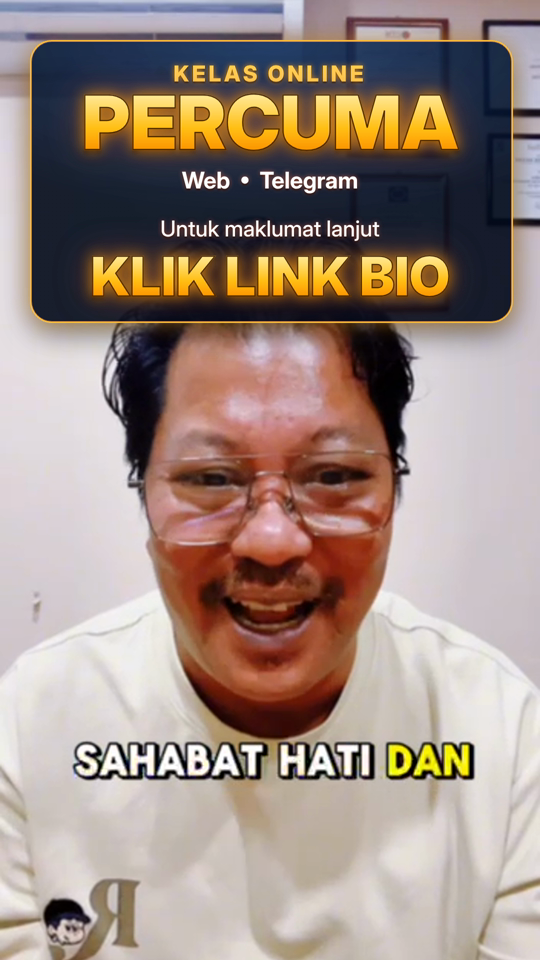
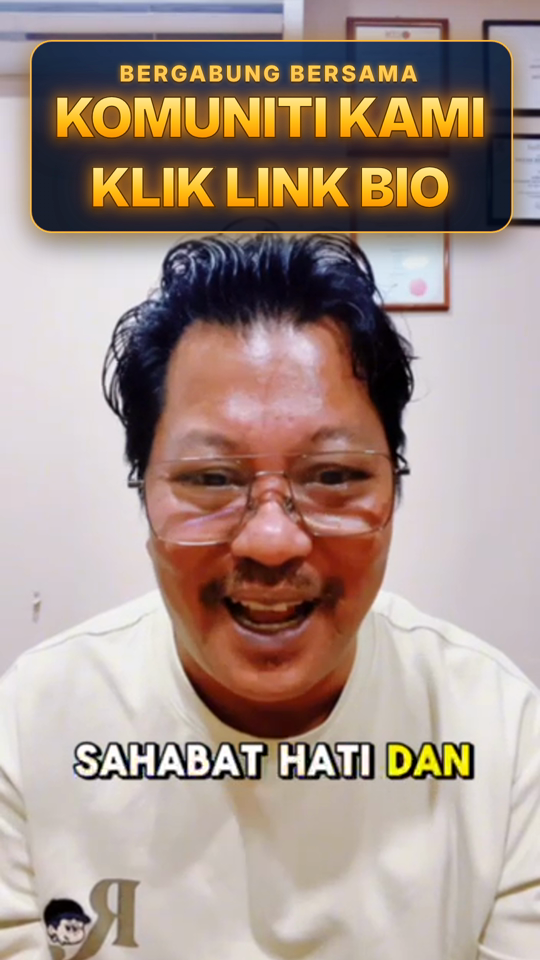
Replace class promo end card with community CTA
Claude-Session: https://claude.ai/code/session_01V1buVqeeNNoY2FMPH4TUNN

Changed region(s): [[0.0296, 0.0625, 0.9778, 0.375]]

diff --git a/skill/edit-video-rafee-gaya-baru/scripts/overlay.html b/skill/edit-video-rafee-gaya-baru/scripts/overlay.html
@@ -59,10 +59,12 @@ const cardEls=CARDS.map(c=>{
 // end card
 const ep=document.createElement('div');ep.className='panel';ep.style.top='80px';ep.style.height='560px';root.appendChild(ep);
 const e1=mk('small',END.label||'KELAS ONLINE',120);
-const e2=mk('gold',END.big||'PERCUMA',168,'font-size:150px');
-const e3=mk('white',END.platform||'Web &nbsp;•&nbsp; Telegram',332,'font-size:46px');
-const e4=mk('white',END.question||'Ingin meneruskan kelas ini?',430,'font-size:44px;font-weight:500');
-const e5=mk('gold',END.cta_text||'KOMEN NAK',496,'font-size:'+fit(END.cta_text||'KOMEN NAK',118)+'px');
+const COMPACT=END.platform===''&&END.question==='';
+if(COMPACT)ep.style.height='380px';
+const e2=mk('gold',END.big||'PERCUMA',COMPACT?178:168,'font-size:'+fit(END.big||'PERCUMA',150)+'px');
+const e3=mk('white',COMPACT?'':END.platform||'Web &nbsp;•&nbsp; Telegram',332,'font-size:46px');
+const e4=mk('white',COMPACT?'':END.question||'Ingin meneruskan kelas ini?',430,'font-size:44px;font-weight:500');
+const e5=mk('gold',END.cta_text||'KOMEN NAK',COMPACT?318:496,'font-size:'+fit(END.cta_text||'KOMEN NAK',118)+'px');
 
 // ---------- canvas fx ----------
 const cv=document.getElementById('fx'),cx=cv.getContext('2d');

diff --git a/skill/edit-video-rafee-gaya-baru/SKILL.md b/skill/edit-video-rafee-gaya-baru/SKILL.md
@@ -35,7 +35,7 @@ The HyperFrames MCP `compose` cannot trim or cut his footage. It mutes his video
 3. **Transcript:** run `caption_strips.sh`, then Read each capN.png. Choose:
    - **Pop words** (8–12): words he stresses, highlighted words that matter, numbered points. Keep about 4–5 s or more between them.
    - **Cards** (3–5): key sentences as `top` (small gold) + `title` (1–2 big gold lines) + `sub` (white). Use `dna:true` for heritage, memory or generation ideas.
-   - **End card:** start it just before he says the CTA. Use the CTA he actually says (e.g. "KLIK DI LINK BIO"); otherwise use "KOMEN NAK".
+   - **End card (since 5 Nov 2026):** NO class promo. He said "KELAS ONLINE PERCUMA" looks cheap ("nampak murahan"). Use the compact card: `label:"BERGABUNG BERSAMA"`, `big:"KOMUNITI KAMI"`, `platform:""`, `question:""`, `cta_text:"KLIK LINK BIO"` (empty platform and question switch to the shorter 380 px panel). Start it just before "Saya Rafee Ailiah". See `assets/timeline_orang_baik.json`.
    - Skip pops over an inserted image or cover that already has its own title.
 4. **Refine times** at 10 fps (16×1 strips around each target). A pop starts when the yellow highlight lands on the word, or about 0.1 s before.
 5. **Timeline JSON:** set duration, pops, cards, end, `accent` (rgb; change the palette per video so it differs from the last one: cyan `110,215,255`, violet `180,140,255`, red `255,110,90`…), and `head_y`.
